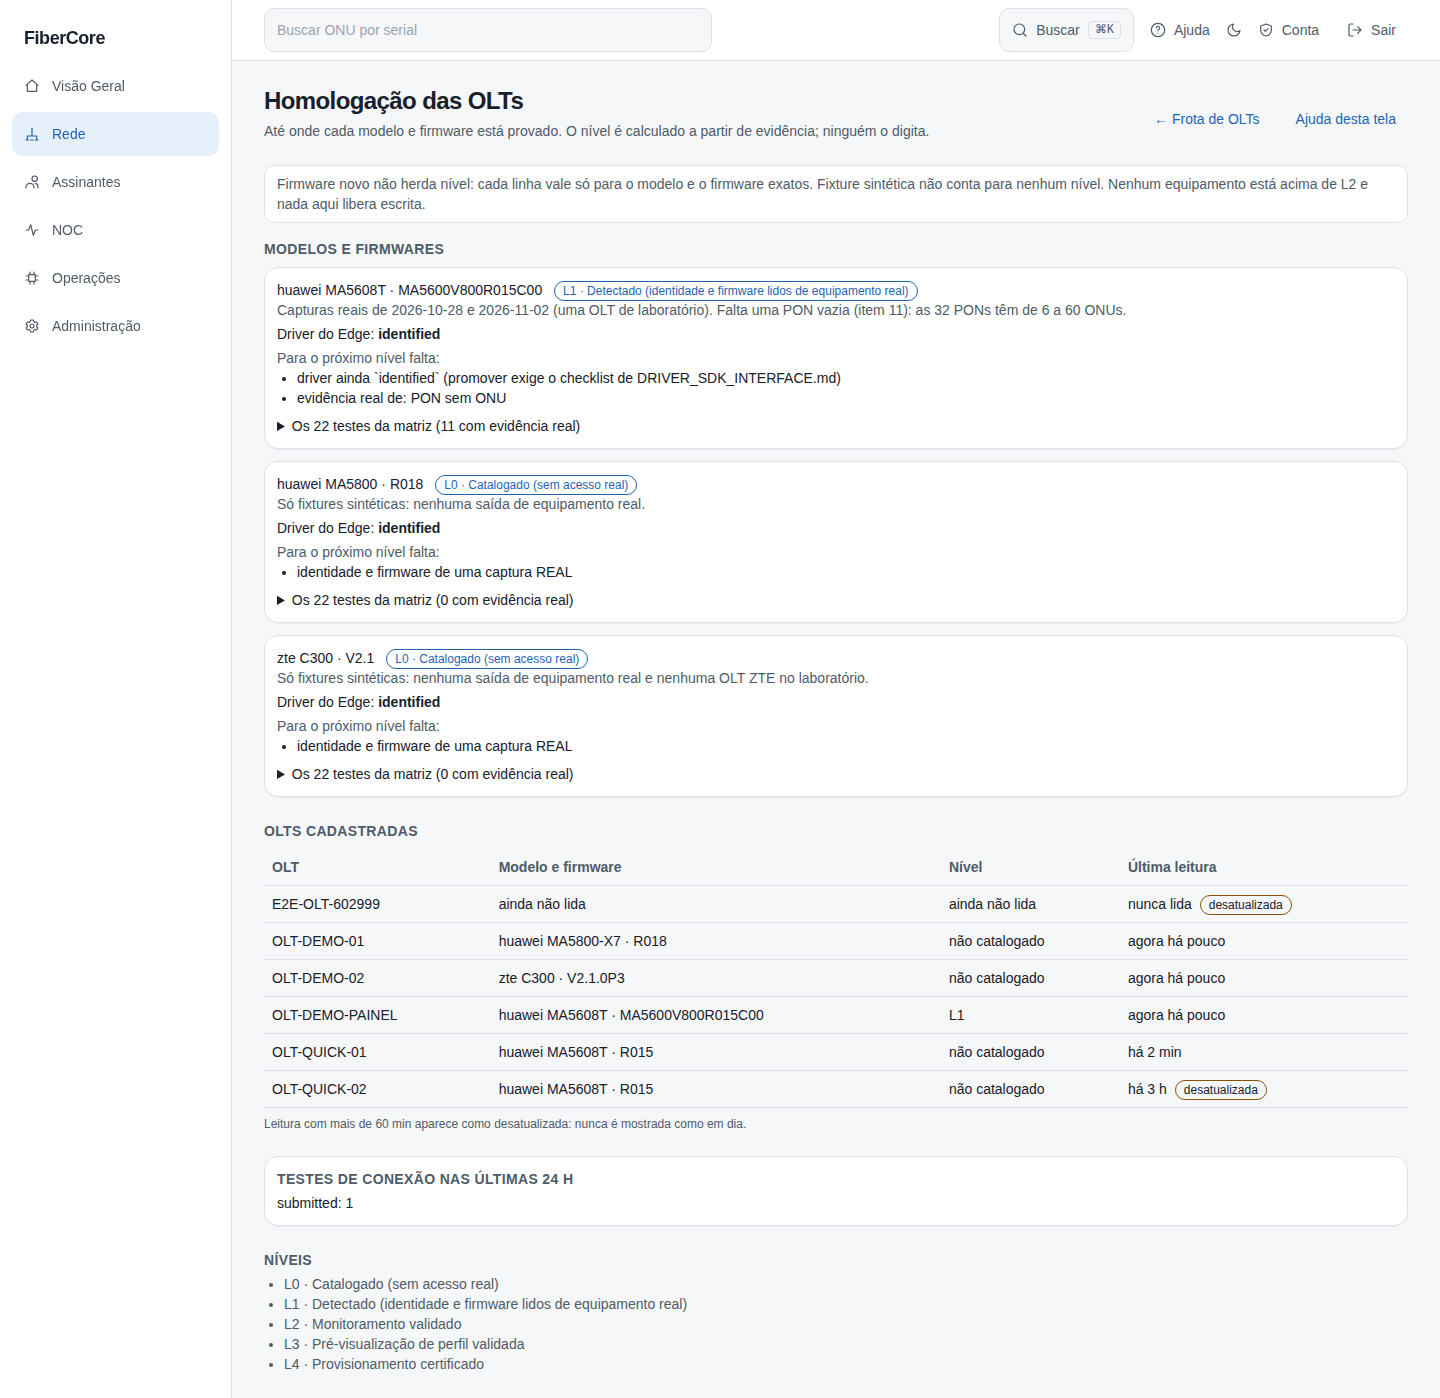
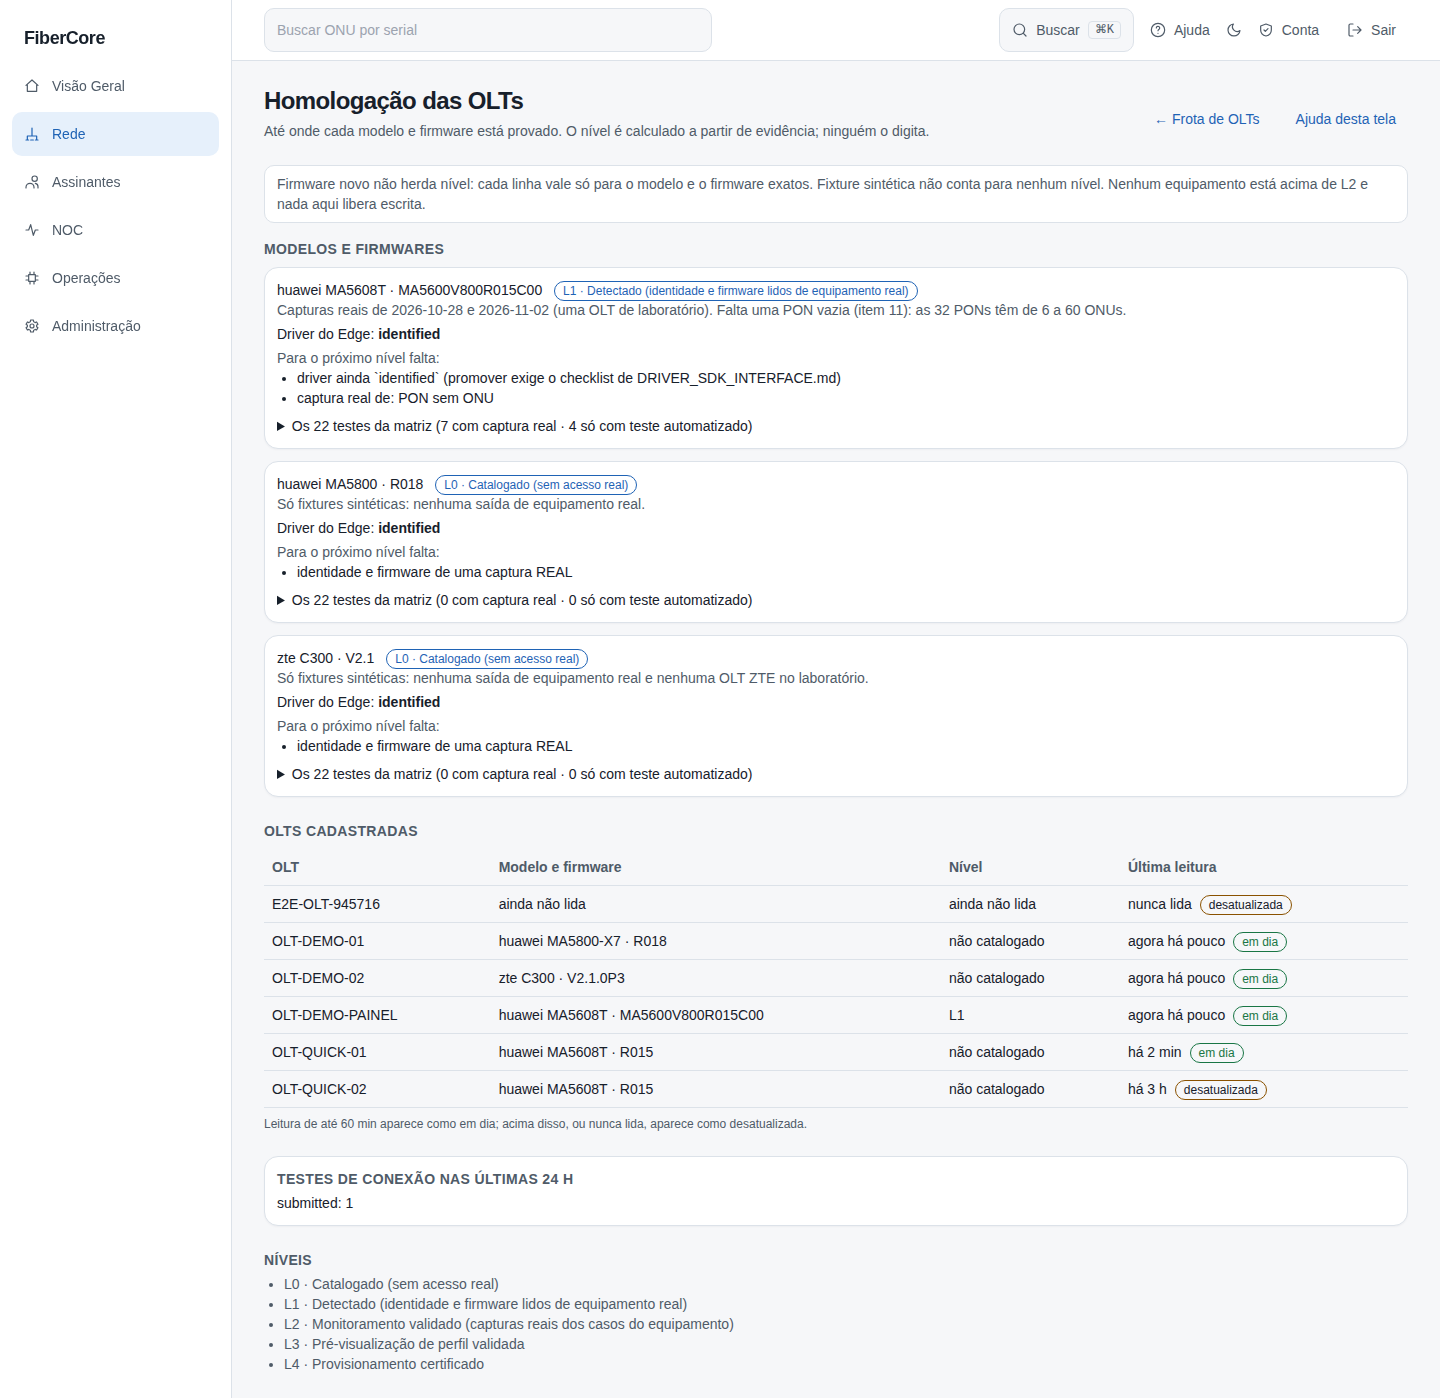
docs: log do Codex, changelog e evidência do PR6
Claude-Session: https://claude.ai/code/session_01G65B8a86N96ZoCrjd2Ad9b

diff --git a/docs/wiki/reviews/CODEX_REVIEW_LOG.md b/docs/wiki/reviews/CODEX_REVIEW_LOG.md
@@ -183,3 +183,4 @@ Riscos aceitos e documentados (não corrigidos): DoS direcionado por lockout de 
 | fix/test-ping-flake | 1 | approve (rodada 1; `raw/510-*`) | Flake ~0,3% em `test_ping`/`test_speed`: a asserção "sem http/url/host" varria também a assinatura base64 aleatória do envelope. Agora varre todos os campos menos a assinatura (que não é endereço). Só testes. |
 | feat/pr4-device-sidebar | 1 | approve (rodada 1; `raw/511-*`) | ADR-0041 PR4: sidebar da ONU/ONT mostra a arte esquemática rotulada do modelo quando `device_assets` está ligada (senão o desenho anterior); estado só no texto. e2e aparelho/catalogo 6 + recuo 2, ajuda atualizada. Sem API, sem migração, sem Edge. |
 | feat/pr5-knowledge-base | 5 | approve (rodada 5) | (brutos em `raw/512-*` a `raw/516-*`) ADR-0041 PR5: base de conhecimento somente leitura (25 fontes, 19 consultas, 8 runbooks, 6 intenções, 8 receitas, matriz), `GET /v1/knowledge[/{secao}]` (`fleet:read` + flag `fleet_manager`), tela `/rede/conhecimento`, ajuda + capturas. Rodadas: receitas/runbooks sem validação de conteúdo → validador recusa a base inteira (503) se comando/trecho em código tiver palavra de escrita em qualquer posição; 3 exemplos de ESCRITA da receita Intelbras do pacote removidos (PACKAGE_AUDIT); receitas só servem etapas de leitura/verificação/pré-visualização (lista fechada de verbos de abertura + bloqueio de qualquer verbo de alteração; omitidas contadas na tela). Provas: API 1051 passed, test_knowledge 24, e2e conhecimento/frota/aparelho/catalogo 12 + recuo 1, validate_help 29. Sem migração, sem Edge. |
+| feat/pr6-homologation | 5 | approve (rodada 5) | (brutos em `raw/517-*` a `raw/521-*`) ADR-0041 PR6: livro-razão de homologação (`ledger.json` gerado por `scripts/gen_homologation_ledger.py`, SHA-256 das fixtures), nível L0..L4 CALCULADO (`core/homologation.py`), `GET /v1/fleet/homologation`, tela `/rede/homologacao`, ajuda + capturas. Rodadas: contagem de testes de conexão sem filtro explícito de tenant → filtro + teste com dois tenants; "em dia" implícito → estado explícito (59/61 min); teste automatizado podia elevar a L2 → L2 exige captura real nos 5 casos do equipamento (unit_test só no caso de saída truncada) e a tela não soma captura com teste; lista de OLTs truncada em silêncio → total + aviso. Provas: API 1066 passed, e2e conhecimento/homologacao/frota/aparelho/catalogo 15 + capturas 2 + recuo 1, ajuda 30. Sem migração, sem Edge. Resultado real: só a Huawei MA5608T R015 chega a L1; ninguém passa de L2. |

diff --git a/docs/wiki/CHANGELOG.md b/docs/wiki/CHANGELOG.md
@@ -1,5 +1,12 @@
 # Changelog
 
+## Unreleased — Homologação das OLTs (ADR-0041, PR6, 2026-11-02)
+- API: `GET /v1/fleet/homologation` (`fleet:read` + flag `fleet_manager`). O nível L0..L4 de cada modelo+firmware é CALCULADO por `app/core/homologation.py` a partir do livro-razão (`knowledge_data/ledger.json`, gerado por `scripts/gen_homologation_ledger.py`): L1 só com identidade e firmware de captura REAL; L2 exige driver `observed` e captura real dos 5 casos do equipamento (placa, PON sem ONU, ONU online, offline, pager) mais a reação à saída truncada; L3/L4 só com certificação registrada com evidência e aprovador; fixture sintética não conta; firmware exato, sem herança. Livro inválido = recusado inteiro (503).
+- Testes confirmam, contra o repositório, o SHA-256 de cada fixture, a existência de cada teste citado e que o `driver_level` do livro bate com o Registry do Edge.
+- Web: `/rede/homologacao` (cartões por modelo com o que falta, os 22 testes com o tipo de evidência, OLTs cadastradas com "em dia"/"desatualizada" a 60 min, testes de conexão em 24 h, aviso de lista truncada), atalho na Frota, ajuda `rede/homologacao-de-olts` com capturas reais.
+- Resultado real hoje: Huawei MA5608T `MA5600V800R015C00` = L1 (falta PON sem ONU e a promoção do driver); MA5800 R018 e ZTE C300 = L0 (só fixtures sintéticas); ninguém acima de L2.
+- Provas: API 1066 passed; e2e 15 + capturas 2 + recuo 1; ajuda 30 artigos. Codex: 5 rodadas, approve. Sem migração, sem Edge.
+
 ## Unreleased — Base de conhecimento de OLTs (ADR-0041, PR5, 2026-11-02)
 - API: `GET /v1/knowledge` e `/v1/knowledge/{sources|commands|runbooks|intents|recipes|homologation}` (`fleet:read` + flag `fleet_manager`). Dados do pacote importados como DADO em `apps/api/app/knowledge_data`; `app/core/knowledge.py` valida na carga e recusa a base inteira (503 `knowledge_base_invalid`): consultas só `display`/`show`/`cd` sem palavra de escrita, `can_execute_on_device=false`, `verification=not_tested_in_fibercore`, fontes https, receitas `deny_apply`, matriz `blocked_by_default`, e nenhum comando de escrita mostrado como código (exemplos, receitas, runbooks, roteiro).
 - Receitas: só as etapas de leitura/verificação/pré-visualização são servidas (lista fechada de verbos); as de alteração ficam fora e a tela diz quantas foram omitidas. 3 exemplos de escrita da receita Intelbras do pacote foram removidos (PACKAGE_AUDIT).

diff --git a/docs/wiki/TEST_EVIDENCE.md b/docs/wiki/TEST_EVIDENCE.md
@@ -500,3 +500,7 @@ Ambiente: Linux, Python 3.12.3, Go 1.22.2, Node 22.22.3, Docker 29.2.1, Postgres
 - PR4 (sidebar da ONU/ONT com a arte do modelo): e2e aparelho + catalogo 6 passed, recuo com `device_assets` desligada 2 passed, Codex approve r1. Web da LAB atualizado em `a3ef52d`.
 - PR5 (base de conhecimento somente leitura): API 1051 passed (suite completa, sem o flake de envelope, corrigido antes em `762ae4d`); `test_knowledge.py` 24 (validador parametrizado: escrita em consulta, exemplo, passo, runbook, roteiro, em qualquer posição de um trecho em código); e2e conhecimento/frota/aparelho/catalogo 12 + recuo 1; ajuda 29 artigos; Codex approve na 5ª rodada. Deploy LAB (`main` = `0c70134`, backup antes, sem migração, head 0046): leitura real pela API com conta descartável = 25 fontes, 19 consultas (todas `executable=false`), 8 receitas com etapas de alteração omitidas; conta desativada.
 - Achado de conteúdo: o pacote trazia 3 exemplos de ESCRITA na receita Intelbras; removidos e registrados em `PACKAGE_AUDIT.md`.
+
+## ADR-0041 PR6 — homologação das OLTs (2026-11-02)
+- API 1066 passed (suite completa); `test_homologation.py` 15 (níveis calculados, unit-only não passa de L0/L1, sintético não conta, ledger inválido recusado, hash das fixtures e nomes de teste conferidos contra o repositório, `driver_level` igual ao Registry do Edge, isolamento entre tenants, 59/61 min, lista truncada).
+- e2e conhecimento/homologação/frota/aparelho/catálogo 15 passed + capturas 2 + recuo `fleet_manager` desligada 1; ajuda 30 artigos. Codex approve na 5ª rodada.

diff --git a/.agent-context/NEXT_ACTIONS.md b/.agent-context/NEXT_ACTIONS.md
@@ -305,3 +305,7 @@ Ordem de entrega (cada item: testes, Codex, evidência): (1) modo captura no Edg
 ## Atualização 2026-11-02 (noite 8): PR3 avaliado — bloqueado por hardware (sem código)
 - ADR-0041 §4.0 e `OLT_CAPTURE_REQUEST.md` ("Prioridade atual") registram: sem OLT real de outro fabricante e sem PON vazia na MA5608T, o PR3 não pode avançar sem inventar fixture. Registry inalterado (tudo `identified`). Desbloqueio = responsável (acesso/captura).
 - Próximo executável sem hardware: PR4 (sidebar da ONU/ONT com miniatura por modelo; demais OLT = miniatura + tabela), PR5 (base de conhecimento), PR6 (matriz L0–L4 e observabilidade).
+
+## Atualização 2026-11-02 (noite 9): PR4 e PR5 no ar (`main` = `0c70134`)
+- PR4 (sidebar da ONU/ONT com arte esquemática do modelo) e PR5 (base de conhecimento somente leitura: `/rede/conhecimento`, `GET /v1/knowledge`) entregues e na LAB (API/web; Edge `0.1.0-lab-851be52` sem mudança). Flake de envelope (`test_ping`/`test_speed`) corrigido.
+- PR3 segue bloqueado por hardware (ADR-0041 §4.0). Próximo: PR6 (matriz de homologação L0–L4 por modelo+firmware e observabilidade).
